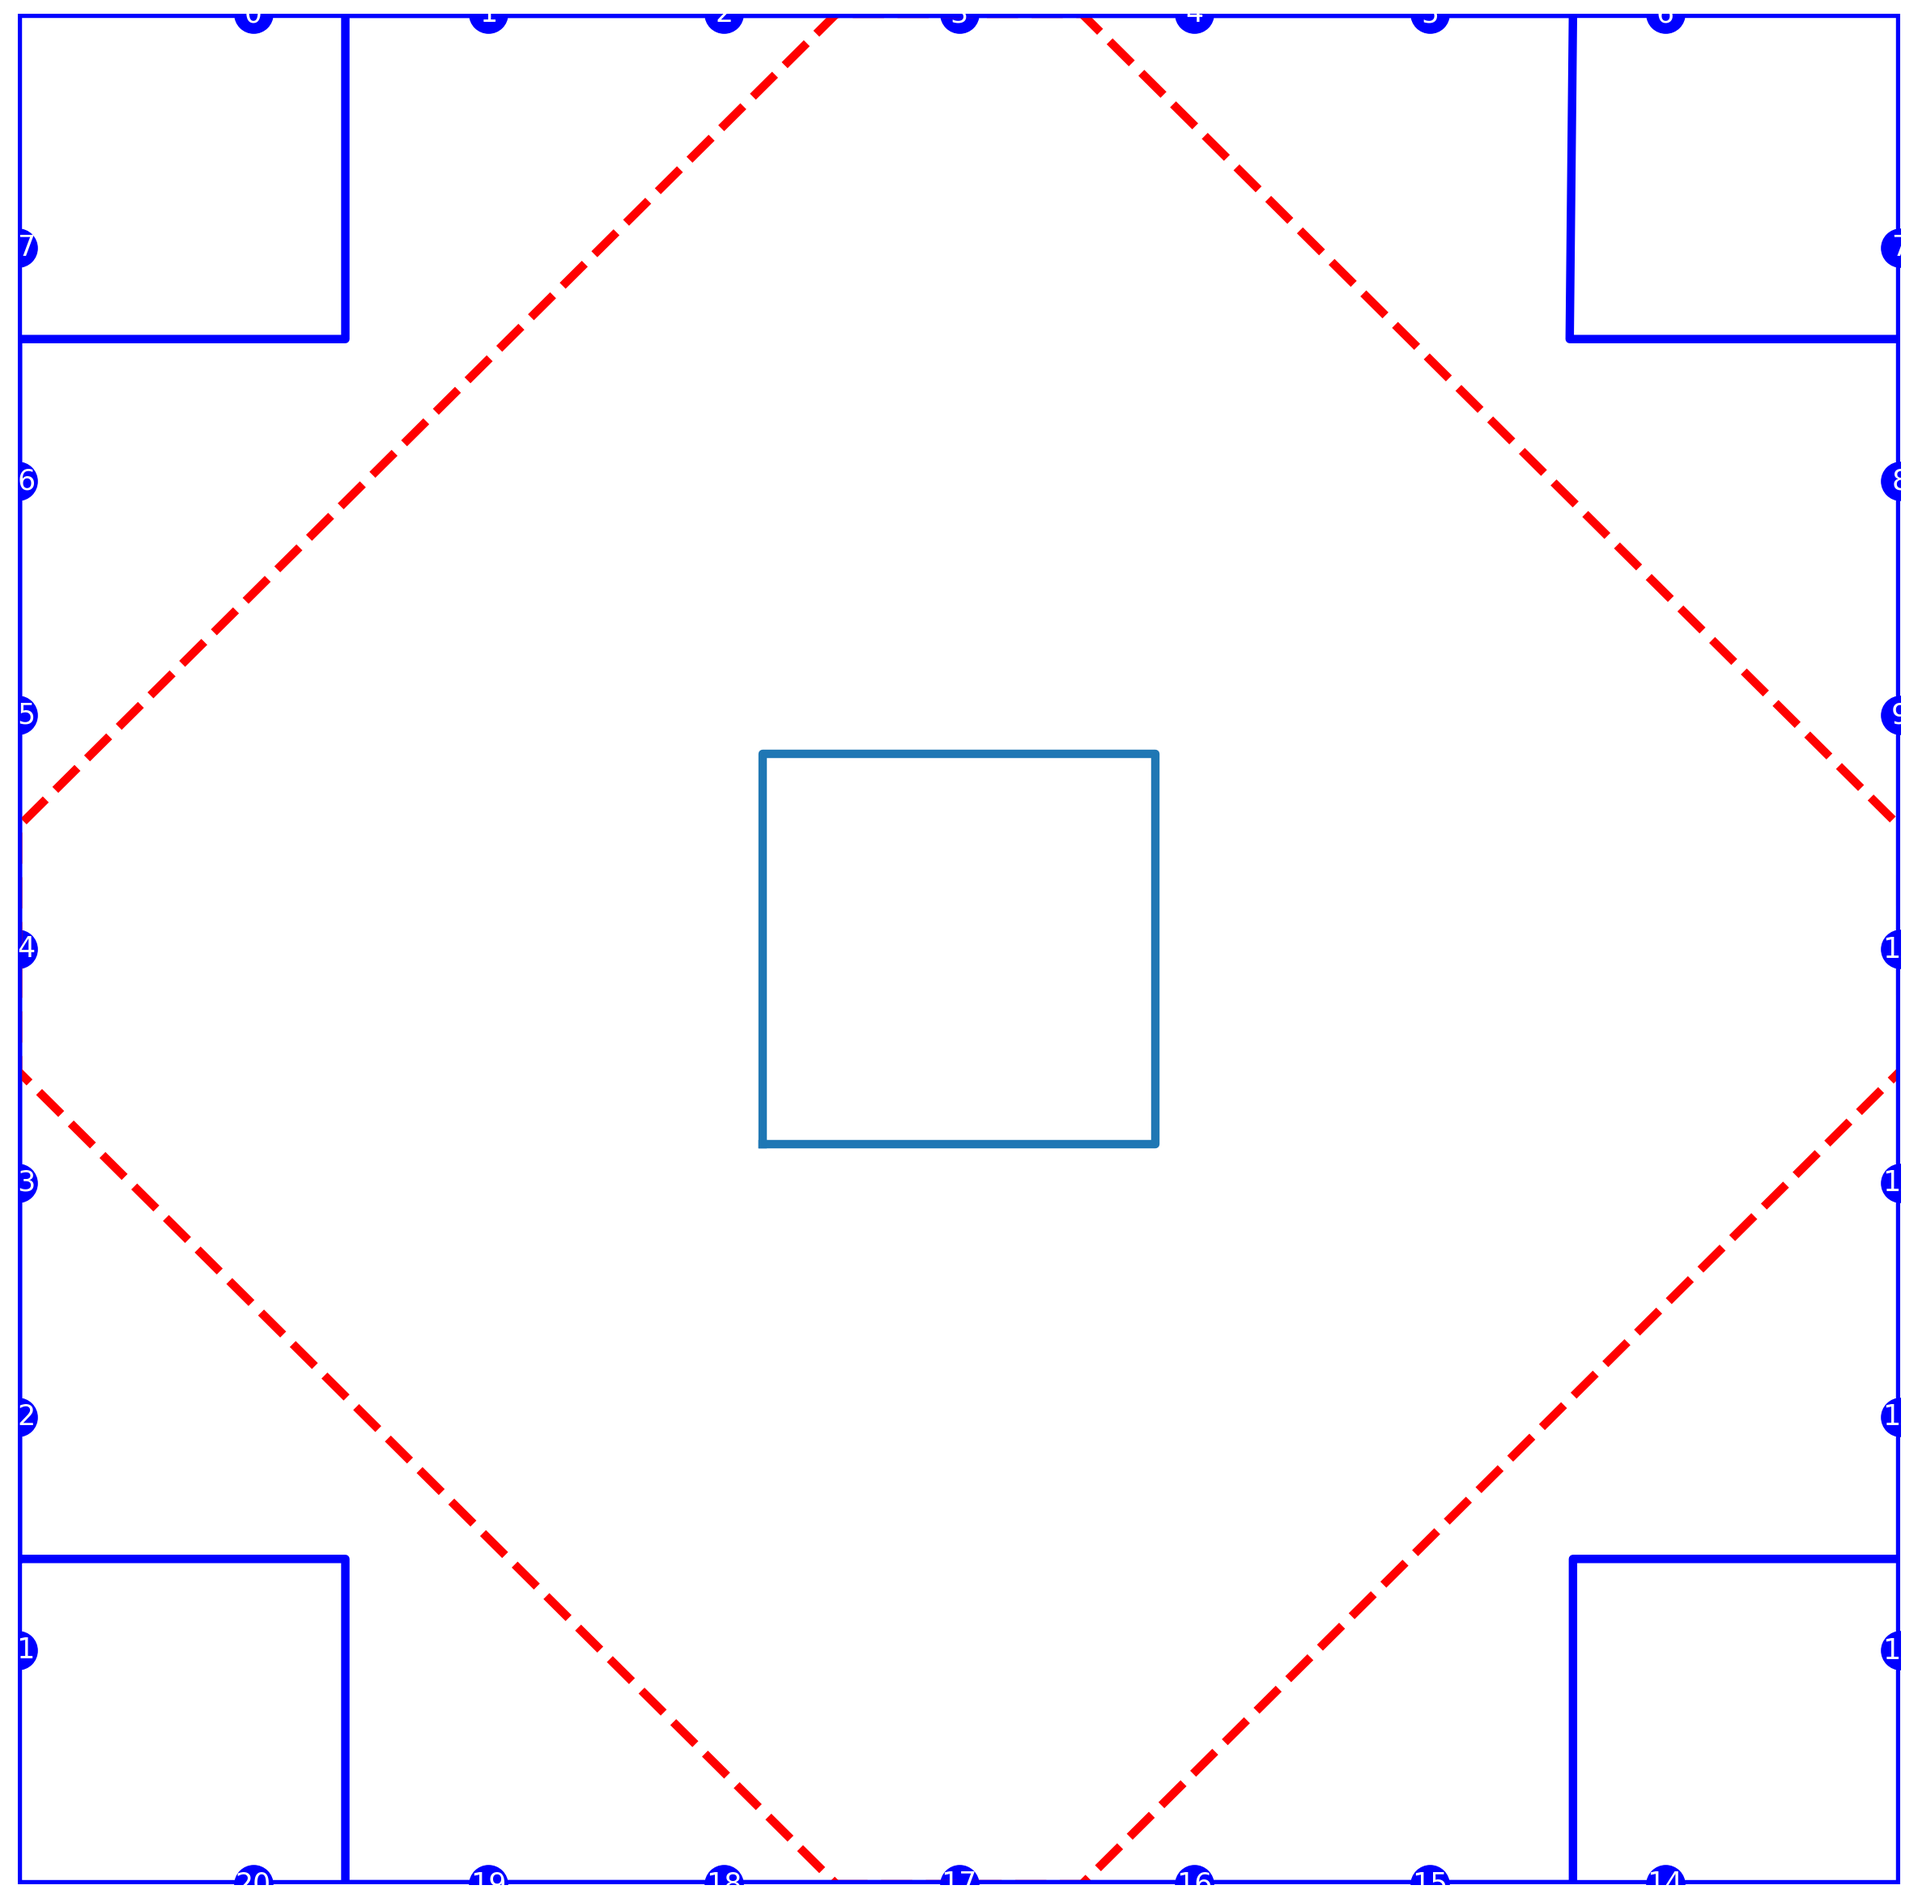
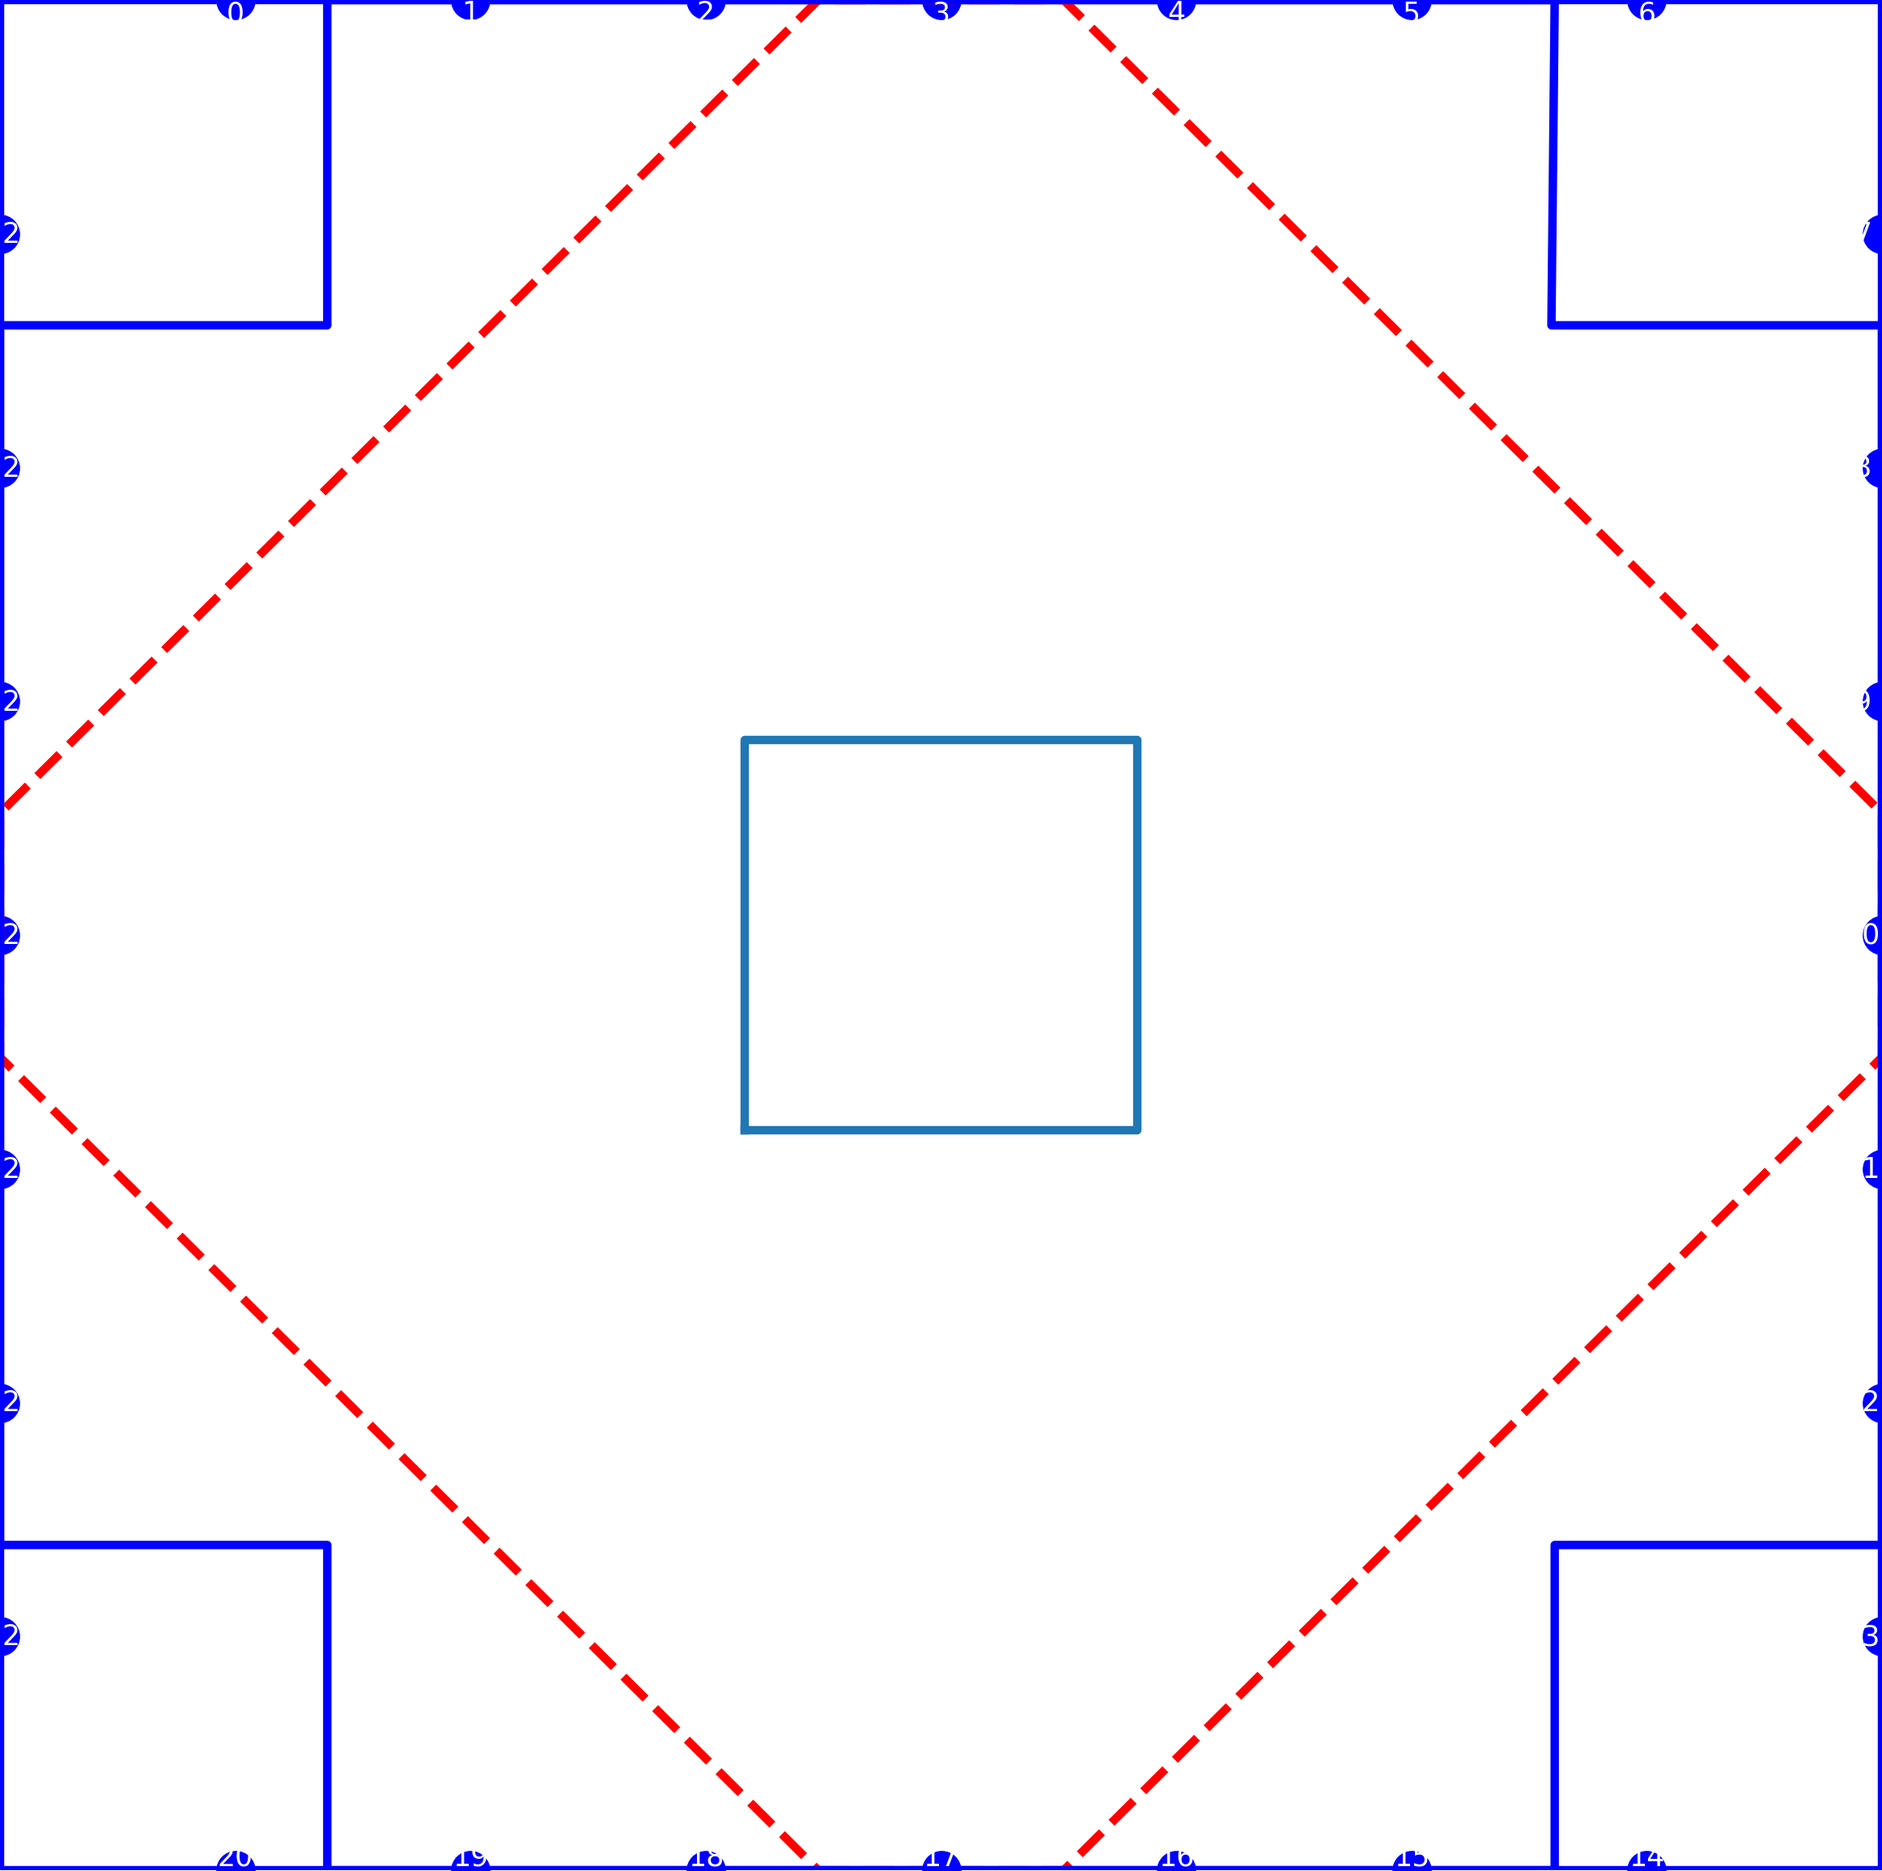
Intergrate new maths, fix background

diff --git a/sandbox/sandbox.py b/sandbox/sandbox.py
@@ -94,18 +94,6 @@ class AsyncPlotter():
             p.join()
 
 
-# calculates the distance of the marker from the robot
-def calculate_distance(theta, psi, r):
-    h = (r * math.cos(math.radians(90 - theta)))
-    z = (r * math.cos(math.radians(theta)))
-    x = (h * math.cos(math.radians(90 - psi)))
-    y = (h * math.sin(math.radians(90 - psi)))
-    print("x:", x, end=', ')
-    print("y:", y, end=', ')
-    print("z:", z)
-    return (x, y)
-
-
 # calculates the position of the robot using the position of the marker
 def calculate_pos(x_in, y_in, marker_number):
     robot_pos = []
@@ -129,6 +117,26 @@ def calculate_pos(x_in, y_in, marker_number):
         y = marker_pos[1] + y_in
         robot_pos = [x, y]
     return (robot_pos)
+
+
+def get_intersections(x0, y0, r0, x1, y1, r1):
+    d = math.sqrt((x1 - x0)**2 + (y1 - y0)**2)
+    if d > r0 + r1:
+        return [[-1, -1], [-1, -1]]
+    if d < abs(r0 - r1):
+        return [[-2, -2], [-2, -2]]
+    if d == 0 and r0 == r1:
+        return [[-3, -3], [-3, -3]]
+    else:
+        a = (r0**2 - r1**2 + d**2) / (2 * d)
+        h = math.sqrt(r0**2 - a**2)
+        x2 = x0 + a * (x1 - x0) / d
+        y2 = y0 + a * (y1 - y0) / d
+        x3 = x2 + h * (y1 - y0) / d
+        y3 = y2 - h * (x1 - x0) / d
+        x4 = x2 - h * (y1 - y0) / d
+        y4 = y2 + h * (x1 - x0) / d
+        return ([[x3, y3], [x4, y4]])
 
 
 # inputs from robot camera in degrees and mm
@@ -175,7 +183,6 @@ class Robot():
     def calc_move(self):
         if len(self.future_movement) == 0:
             return
-        print(self.future_movement)
         # get the first elemtn of self.future_movement and then remove it
         movement = self.future_movement.pop(0)
         self.rotation += movement[1]
@@ -184,8 +191,6 @@ class Robot():
             math.radians(self.rotation))
         next_y = self.real_position[1] + movement[0] * math.sin(
             math.radians(self.rotation))
-
-        print(next_x, next_y)
 
         self.real_position[0] = next_x  #min(max(next_x, 0), 5740)
         self.real_position[1] = next_y  #min(max(next_y, 0), 5740)
@@ -206,18 +211,56 @@ class Robot():
 
     def calculate_seen_values(self):
         # TODO: emulate the values we would get from the sr3 camera libary regarding each marker
-        points = [
-        ]  # [[85, 90, 1500, 11], [90, 90, 800, 8], [90, 90, 5750 / 2, 24], [90, 90, 5750 / 2, 17], [90, 90, 1000, 23], [90, 90 - 35.678, 1231.1, 22], [90, 90 + 35.678, 1231.1, 24]]
+        points = []  #[[90, 90 - 35.678, 1231.1, 8],
+        #            [90, 90, 1000, 9],
+        #            [90, 90 + 35.678, 1231.1, 10]]
+        for id in self.seen_ids:
+            points.append([
+                90,
+                self.angle_to_point(marker_list[id][1], marker_list[id][2]),
+                self.distance_to_point(marker_list[id][1], marker_list[id][2]),
+                id
+            ])
+
+        self.seen_vals = points
+
         return points
 
     def process_seen_markers(self):
+        if len(self.seen_markers) == 0:
+            return
         #process each seen marker and output a point on the map it suggests the location of the camera is
+        circles = []
         for marker in self.seen_markers:
-            (x, y) = calculate_distance(marker[0], marker[1], marker[2])
-            point = calculate_pos(x, y, marker[3])
-            point.append(marker[3])
-            self.calculated_points.append(point)
-        # TODO: calc standard deviation and remove outliers
+            point = (marker[2] * math.cos(math.radians(90 - marker[0])))
+            circles.append([marker[1], marker[2], point, marker[3]])
+            plt.gca().add_patch(
+                patches.Circle((marker[1], marker[2]),
+                               point,
+                               fill=False,
+                               linestyle=':',
+                               color='C1'))
+
+        valid_points = [[], []]
+        for i in range(len(circles)):
+            if i + 1 != len(circles):
+                a = i + 1
+            else:
+                a = 0
+            points = get_intersections(circles[i][0], circles[i][1],
+                                       circles[i][2], circles[a][0],
+                                       circles[a][1], circles[a][2])
+            for point in points:
+                if 0 < point[0] < 5750 and 0 < point[1] < 5750:
+                    valid_points[0].append(point[0])
+                    valid_points[1].append(point[1])
+                    self.calculated_points.append(
+                        [point[0], point[1], circles[i][3]])
+        if len(valid_points[0]) == 0:
+            return
+        avg_x = sum(valid_points[0]) / len(valid_points[0])
+        avg_y = sum(valid_points[1]) / len(valid_points[1])
+        self.calculated_pos = [avg_x, avg_y]
 
     def calc_fov_points(self):
         x = self.real_position[0]
@@ -264,10 +307,12 @@ class Robot():
                  fontsize=5,
                  color='w')
 
-        direction_x = self.real_position[0] + self.camera_distance * math.cos(
-            math.radians(self.rotation))
-        direction_y = self.real_position[1] + self.camera_distance * math.sin(
-            math.radians(self.rotation))
+        direction_x = self.real_position[
+            0] + self.camera_distance / 2 * math.cos(
+                math.radians(self.rotation))
+        direction_y = self.real_position[
+            1] + self.camera_distance / 2 * math.sin(
+                math.radians(self.rotation))
         plt.plot([self.real_position[0], direction_x],
                  [self.real_position[1], direction_y],
                  color='C1')
@@ -338,13 +383,47 @@ class Robot():
             #                      color='b'))
 
             for i in range(len(x)):
-                plt.text(x[i],
-                         y[i],
-                         str(i),
-                         horizontalalignment='center',
-                         verticalalignment='center',
-                         fontsize=5,
-                         color='w')
+                if i < 7:
+                    plt.text(x[i],
+                             y[i] - 40,
+                             str(i),
+                             horizontalalignment='center',
+                             verticalalignment='center',
+                             fontsize=5,
+                             color='w')
+                elif 6 < i < 14:
+                    plt.text(x[i] - 60,
+                             y[i],
+                             str(i),
+                             horizontalalignment='center',
+                             verticalalignment='center',
+                             fontsize=5,
+                             color='w')
+                elif 13 < i < 21:
+                    plt.text(x[i],
+                             y[i] + 40,
+                             str(i),
+                             horizontalalignment='center',
+                             verticalalignment='center',
+                             fontsize=5,
+                             color='w')
+                elif 20 < i < 28:
+                    plt.text(x[i] + 60,
+                             y[i],
+                             str(i),
+                             horizontalalignment='center',
+                             verticalalignment='center',
+                             fontsize=5,
+                             color='w')
+                else:
+                    plt.text(x[i],
+                             y[i],
+                             str(i),
+                             horizontalalignment='center',
+                             verticalalignment='center',
+                             fontsize=5,
+                             color='w')
+
             plt.axis("off")
         else:
             # load the precreated background.png
@@ -353,6 +432,16 @@ class Robot():
             ax.imshow(img, extent=[0, 5750, 0, 5750], aspect='auto', zorder=0)
 
         return fig
+
+    def angle_to_point(self, x, y):
+        dx = x - self.real_position[0]
+        dy = y - self.real_position[1]
+        return math.degrees(math.atan2(dy, dx))
+
+    def distance_to_point(self, x, y):
+        dx = x - self.real_position[0]
+        dy = y - self.real_position[1]
+        return math.sqrt(dx**2 + dy**2)
 
     def render_frame(self):
 
@@ -366,7 +455,7 @@ class Robot():
             ax = plt.gca()
             ax.set_xlim([0, 6000])
             ax.set_ylim([0, 6000])
-            self.render_points()
+            #self.render_points()
             self.render_position()
             plt.plot([self.real_position[0], self.fov_points[0][0]],
                      [self.real_position[1], self.fov_points[1][0]],
@@ -374,6 +463,9 @@ class Robot():
             plt.plot([self.real_position[0], self.fov_points[0][1]],
                      [self.real_position[1], self.fov_points[1][1]],
                      color='C5')
+            plt.scatter(self.calculated_pos[0],
+                        self.calculated_pos[1],
+                        color='C3')  # location
             x = []
             y = []
 
@@ -382,6 +474,16 @@ class Robot():
                     x.append(marker_list[i][1])
                     y.append(marker_list[i][2])
             plt.scatter(x, y, color='green')
+
+            for point in self.seen_vals:
+                # draw a line from the robot at angle and distance
+                direction_x = self.real_position[0] + point[2] * math.cos(
+                    math.radians(point[1]))
+                direction_y = self.real_position[0] + point[2] * math.sin(
+                    math.radians(point[1]))
+                plt.plot([self.real_position[0], direction_x],
+                         [self.real_position[1], direction_y],
+                         color='blue')
 
         plot_end = time.time()
         print(f"{self.frame}/{self.max_frame}: {round(plot_end-start, 3)}")
